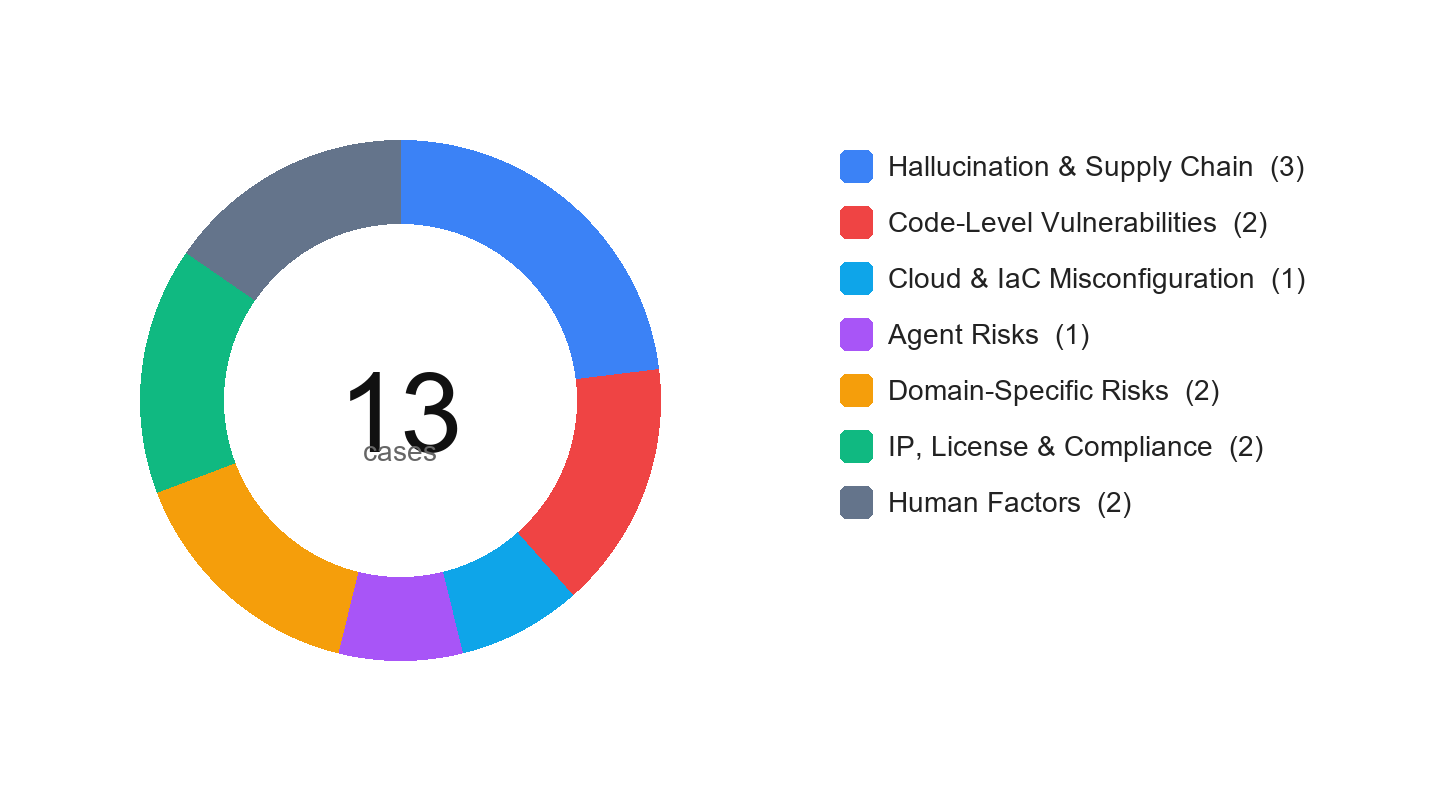
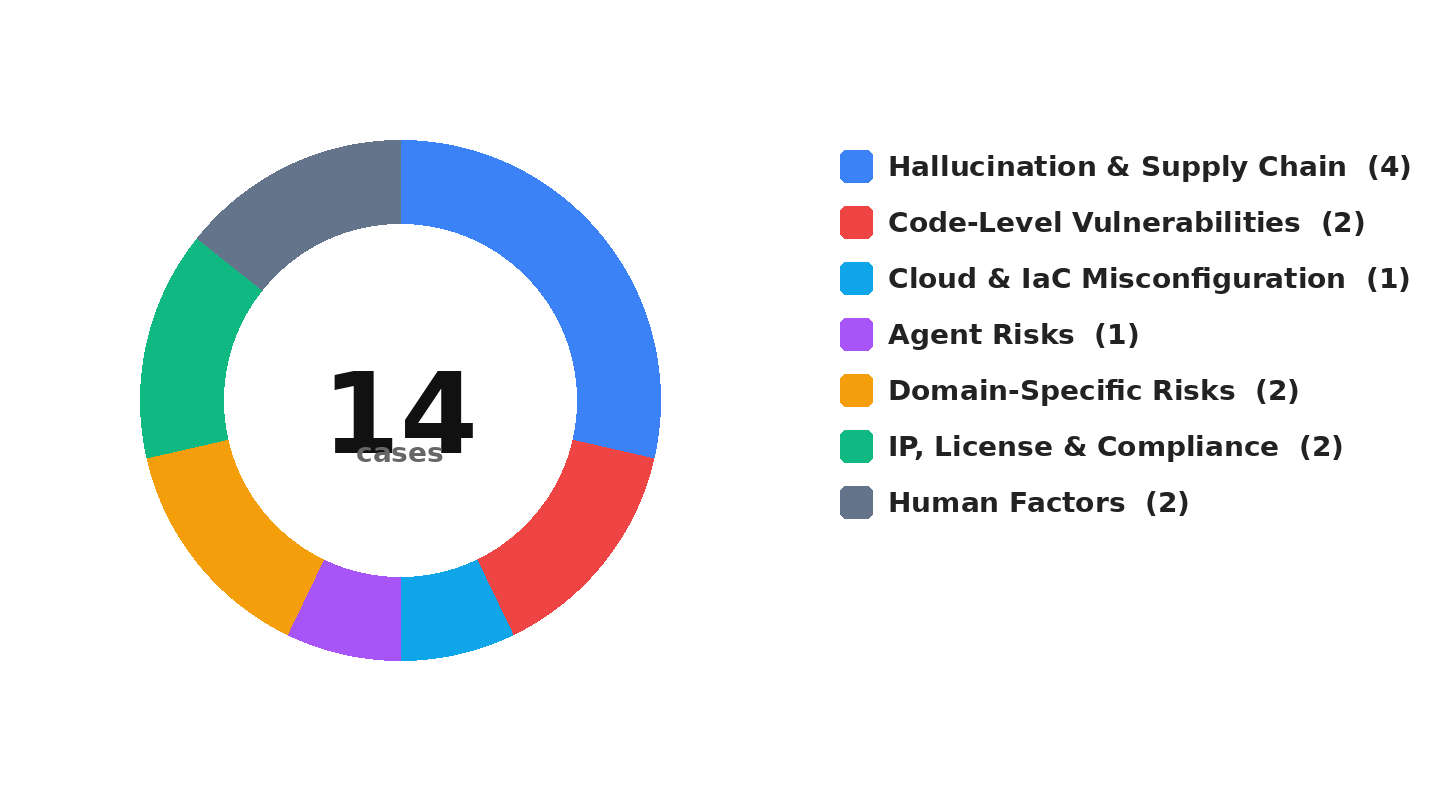
Add case: LiteLLM PyPI Supply Chain Poisoning (2026)

diff --git a/cases/2026-litellm-pypi-supply-chain-poisoning/README.md b/cases/2026-litellm-pypi-supply-chain-poisoning/README.md
@@ -1,0 +1,91 @@
+# LiteLLM PyPI Supply Chain Poisoning (2026)
+> LiteLLM PyPI 供应链投毒事件
+
+| Field | Value |
+|---|---|
+| Category | Hallucination & Supply Chain |
+| Severity | 🟠 High |
+| AI Tool | LiteLLM |
+| Language | Python |
+| Real Incident | ✅ |
+| Reproducible | ❌ |
+| Disclosed | 2026-03-24 |
+| CVE | — |
+| CVSS | — |
+
+## TL;DR
+Malicious LiteLLM 1.82.7/1.82.8 PyPI releases stole credentials and added host or Kubernetes persistence.
+> 2026 年 3 月，LiteLLM 的 PyPI 版本 1.82.7 和 1.82.8 被植入恶意载荷，用于窃取凭证并建立主机或 Kubernetes 持久化。
+
+---
+
+## 详细分析 / Full Analysis
+
+### 事件概述
+
+2026 年 3 月 24 日，安全研究人员披露，热门 Python AI 框架 LiteLLM 的 PyPI 发布链遭到供应链攻击。攻击者向 PyPI 上传了 LiteLLM 1.82.7 和 1.82.8 两个恶意版本。公开分析显示，恶意包中包含凭证窃取、加密外传、持久化和 Kubernetes 横向扩展相关逻辑。LiteLLM 是常见的 LLM 统一网关，常用于统一接入 OpenAI、Anthropic、Azure、Vertex AI 等模型服务，因此该事件直接影响 AI 应用运行环境中的高价值凭证和基础设施权限。
+
+![事件严重性概览](assets/severity-context.png)
+
+### 风险影响
+
+LiteLLM 的典型部署位置决定了该事件风险较高。首先，企业通常将 LiteLLM 作为模型调用网关部署在生产环境中，代理层往往保存多个模型服务、云平台、数据库或内部系统的访问凭证。其次，LiteLLM 常运行在容器或 Kubernetes 集群中，恶意载荷一旦获取 Service Account Token，就可能进一步枚举节点并部署特权 Pod。最后，LiteLLM 属于 AI 开发链条中的基础依赖，一旦其发布包被污染，下游使用自动升级或宽松版本约束的项目容易在不知情的情况下安装恶意版本。
+
+该事件说明，AI 工具链中的基础组件已经成为软件供应链攻击的重要入口。攻击者不需要直接攻击最终业务系统，只要污染高下载量、高权限的中间依赖，就可能获得大量下游环境中的密钥、令牌和运行时权限。
+
+### 恶意载荷技术分析
+
+#### 第一阶段：初始执行
+
+恶意代码主要通过两个入口触发。LiteLLM 1.82.8 中包含 `litellm_init.pth` 文件，该文件会在 Python 解释器启动时自动执行，因此不要求用户显式调用 LiteLLM 代码。另一个入口位于被篡改的代理服务器相关文件中，恶意逻辑通过编码载荷隐藏在正常启动流程中，并在代理服务启动时同步执行。
+
+该设计提高了触发概率。即使用户只是安装了受影响版本，Python 环境启动过程也可能执行恶意代码。对于 CI/CD、Notebook、服务端代理和自动化脚本等场景，这类 `.pth` 启动钩子尤其危险。
+
+#### 第二阶段：信息收集与加密外传
+
+第二阶段主要用于收集主机信息和敏感凭证。公开报告提到的目标包括环境变量、`.env` 文件、SSH 密钥、云服务令牌、Kubernetes 凭证、数据库连接信息和部分钱包文件。攻击者随后对收集到的数据进行加密处理，并发送到攻击者控制的基础设施。
+
+![凭证与主机信息收集范围](assets/credential-collection.png)
+
+![数据加密与外传流程](assets/exfiltration-encryption.png)
+
+这种设计降低了数据在传输过程中被中间设备直接识别的概率，也使只有攻击者能够解密被窃取的数据。对于使用 LiteLLM 管理多个模型供应商 API Key 的企业而言，泄露结果可能不限于单个服务，而是扩展到多个云账号、模型服务和内部系统。
+
+#### 第三阶段：持久化与二次载荷投递
+
+恶意载荷还包含持久化逻辑。在普通主机环境中，攻击者可能将后门脚本写入用户配置目录，并注册为伪装的 systemd 用户服务。在 Kubernetes 环境中，载荷会尝试利用可用的 Service Account Token 枚举集群资源，并通过特权 Pod 挂载宿主机根文件系统，从而向节点写入持久化组件。
+
+![二次载荷投递机制](assets/payload-delivery.png)
+
+此外，恶意代码还会轮询远程地址获取进一步指令或二进制载荷。这意味着初始恶意包不仅用于一次性窃密，还可能作为后续远程控制的入口。
+
+### C2 基础设施
+
+公开分析显示，攻击者使用的域名具有伪装特征，部分域名看起来接近 LiteLLM 或安全厂商相关域名。这种命名方式会增加事件响应中的判断难度。运维人员在排查时不能只依赖域名表面含义，而应结合进程、网络连接、落地文件、包版本和安装时间进行综合判断。
+
+![C2 基础设施示例](assets/c2-infrastructure.png)
+
+### 缓解建议
+
+针对该类 AI 供应链投毒事件，建议采取以下措施：
+
+1. 检查环境中是否安装过 LiteLLM 1.82.7 或 1.82.8，并确认 `site-packages` 中是否存在异常 `.pth` 文件。
+2. 若安装过受影响版本，应将该环境中的模型服务 API Key、云平台 Token、数据库凭证、SSH 密钥和 Kubernetes 凭证视为已泄露并立即轮换。
+3. 使用依赖锁定和哈希校验，例如 `pip --require-hashes`、Poetry lock 或其他锁文件机制，避免生产环境自动安装最新版本。
+4. 对 PyPI、npm 等第三方包设置准入策略，对高权限运行环境中的依赖升级进行人工审核和制品扫描。
+5. 收紧 Kubernetes RBAC 权限，避免业务 Pod 默认具备创建特权 Pod、挂载宿主机路径或枚举所有节点的权限。
+6. 监控异常 systemd 服务、可疑 Python 启动钩子、未知出站域名、异常二进制下载和特权 Pod 创建行为。
+
+### 与 AI 代码生成风险的关系
+
+该事件与 AI 代码生成和 AI 开发工具链风险密切相关。LiteLLM 作为 LLM 统一网关，常被集成到 AI Agent、代码生成平台、模型代理服务和企业内部 AI 应用中。开发者在依赖 AI 工具生成代码或快速搭建原型时，容易采用宽松版本约束或直接安装最新依赖。如果缺少依赖锁定、制品验证和运行时监控，受污染的 AI 基础依赖就可能进入生产环境。
+
+因此，该案例不仅是普通的 PyPI 包投毒事件，也体现了 AI 软件供应链中的特殊风险：AI 工具链组件通常靠近密钥、模型访问入口和自动化执行环境，一旦被投毒，攻击影响会从开发依赖扩展到运行时凭证和基础设施控制面。
+
+### References
+
+1. FutureSearch: [litellm 1.82.8 Supply Chain Attack on PyPI](https://futuresearch.ai/blog/litellm-pypi-supply-chain-attack/)
+2. IONIX: [LiteLLM Supply Chain Compromise — Backdoored PyPI Packages 1.82.7 & 1.82.8](https://www.ionix.io/threat-center/litellm-supply-chain-compromise-backdoored-pypi-packages-1-82-7-1-82-8/)
+3. Bitsight: [Major Security Event: Supply Chain Compromise in LiteLLM Versions 1.82.7 and 1.82.8](https://www.bitsight.com/blog/litellm-versions-1-82-7-1-82-8-supply-chain-compromise)
+4. ITPro: [LiteLLM PyPI compromise: Everything we know so far](https://www.itpro.com/security/litellm-pypi-compromise-everything-we-know-so-far)
+5. 阿里云开发者社区：[深度解析 LiteLLM 供应链投毒事件](https://developer.aliyun.com/article/1719859)

diff --git a/cases/README.md b/cases/README.md
@@ -1,6 +1,6 @@
 # Case Index / 案例索引
 
-**13 cases** across **7 categories**, spanning **2022–2026**.
+**14 cases** across **7 categories**, spanning **2022–2026**.
 
 > Auto-generated by `scripts/render_index.py`. Edit `meta.yaml` files, then re-run.
 
@@ -11,6 +11,7 @@
 | 2024 | [Hallucinated Package Supply-Chain Poisoning (huggingface-cli)](./2024-hallucinated-package-poisoning/) | 🟠 high | GPT-3.5, GPT-4, Gemini Pro, Cohere | — |
 | 2026 | [Agent Hallucination Self-Propagation via Skill Files (react-codeshift)](./2026-agent-hallucination-self-spread/) | 🟠 high | Claude Code, LLM Agent Skills | — |
 | 2026 | [Fake Claude Code Install Pages & Bing-AI-Promoted Malicious OpenClaw Repos](./2026-ai-tool-install-chain-abuse/) | 🟠 high | Claude Code, Bing AI Search | — |
+| 2026 | [LiteLLM PyPI Supply Chain Poisoning](./2026-litellm-pypi-supply-chain-poisoning/) | 🟠 high | LiteLLM | — |
 
 ## Code-Level Vulnerabilities
 